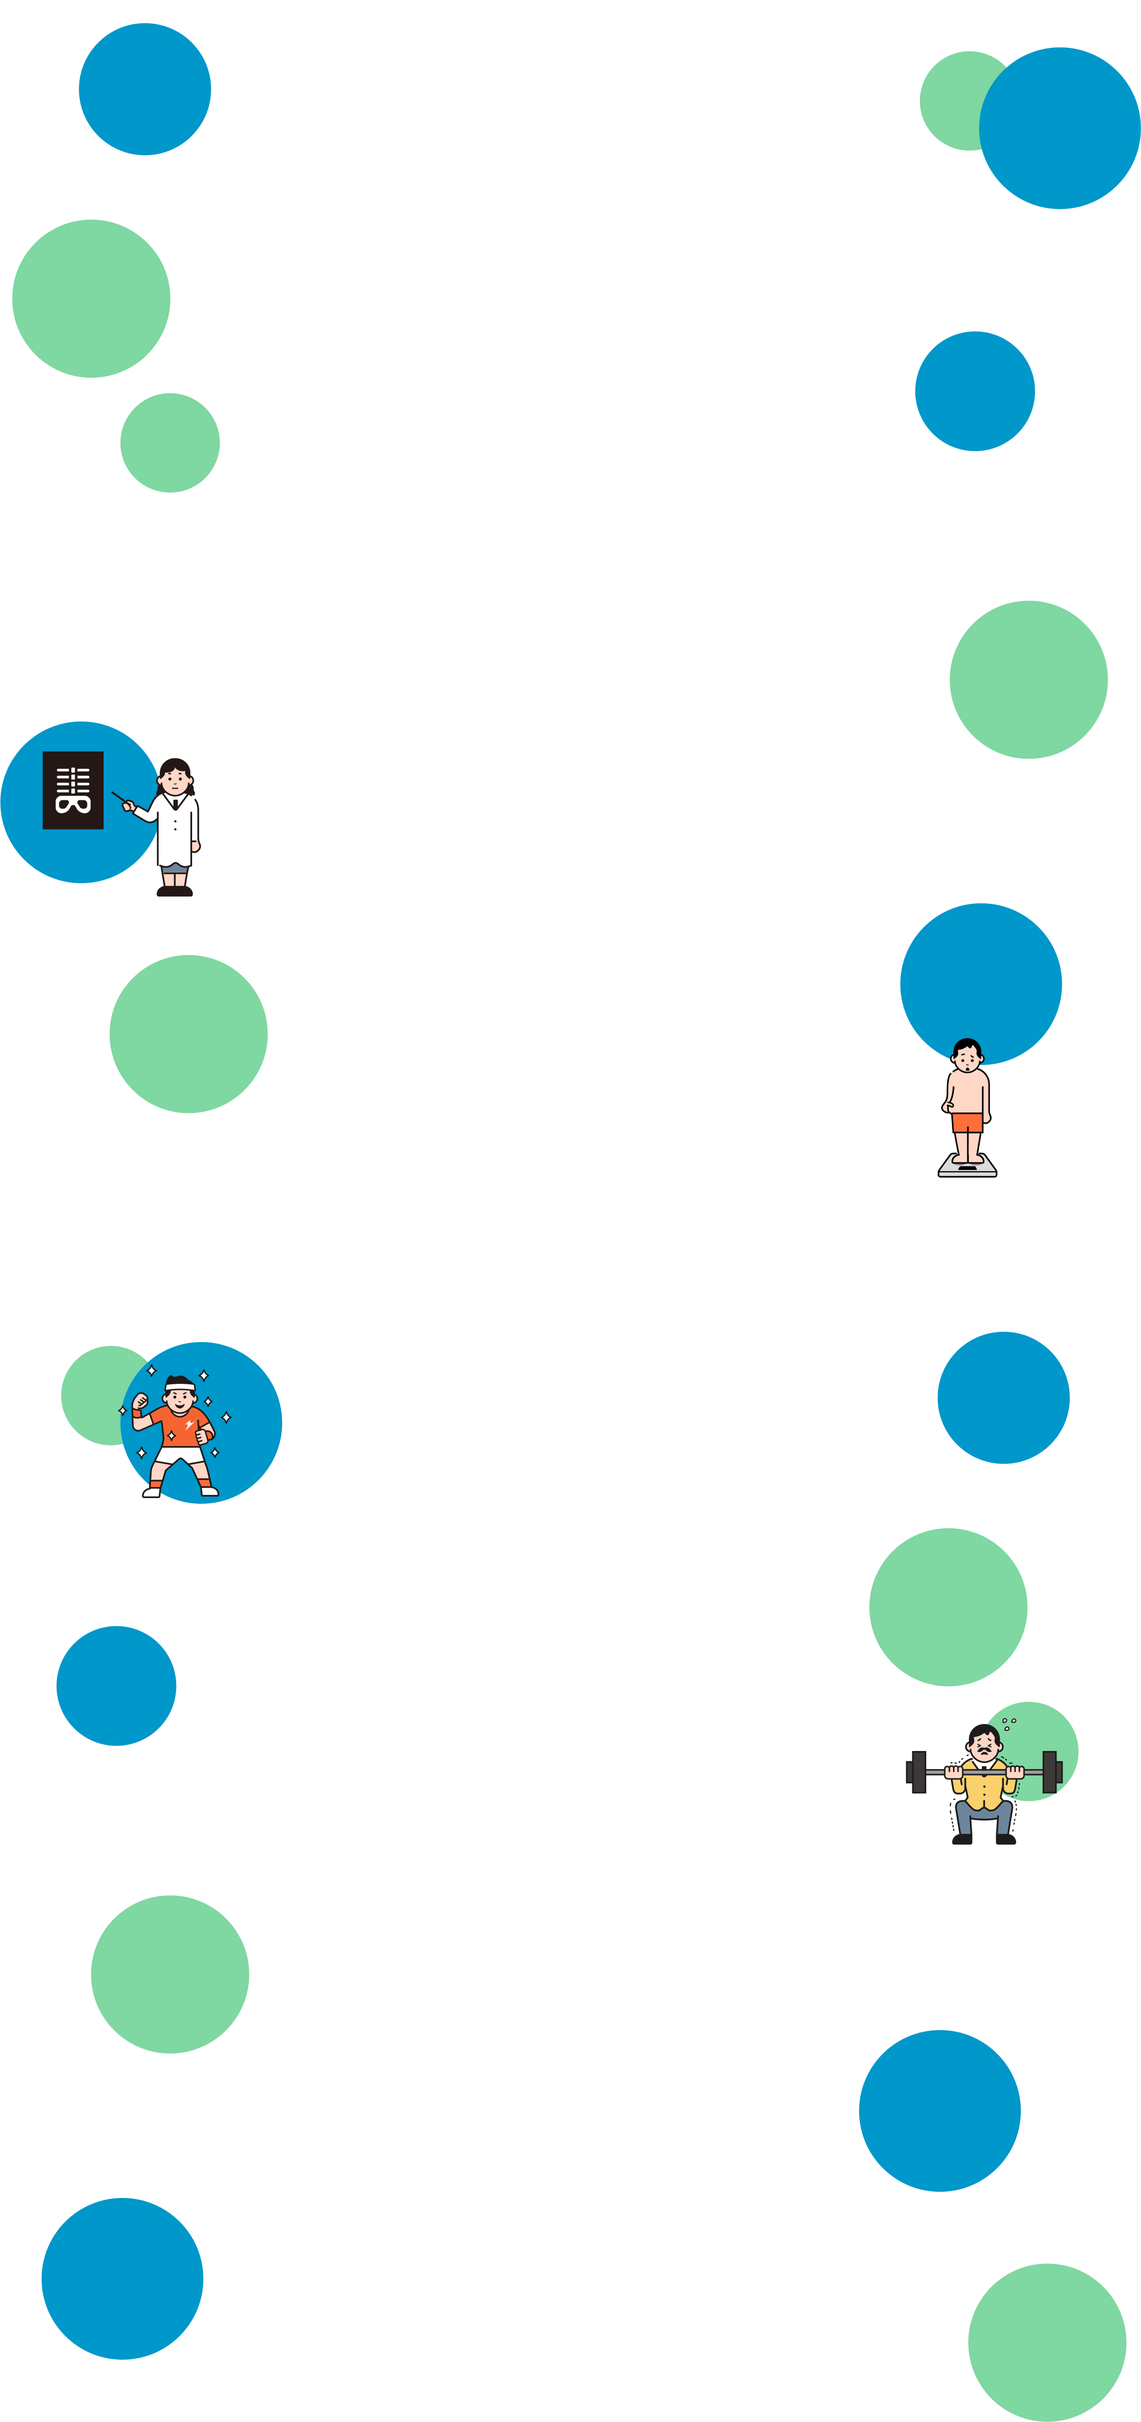
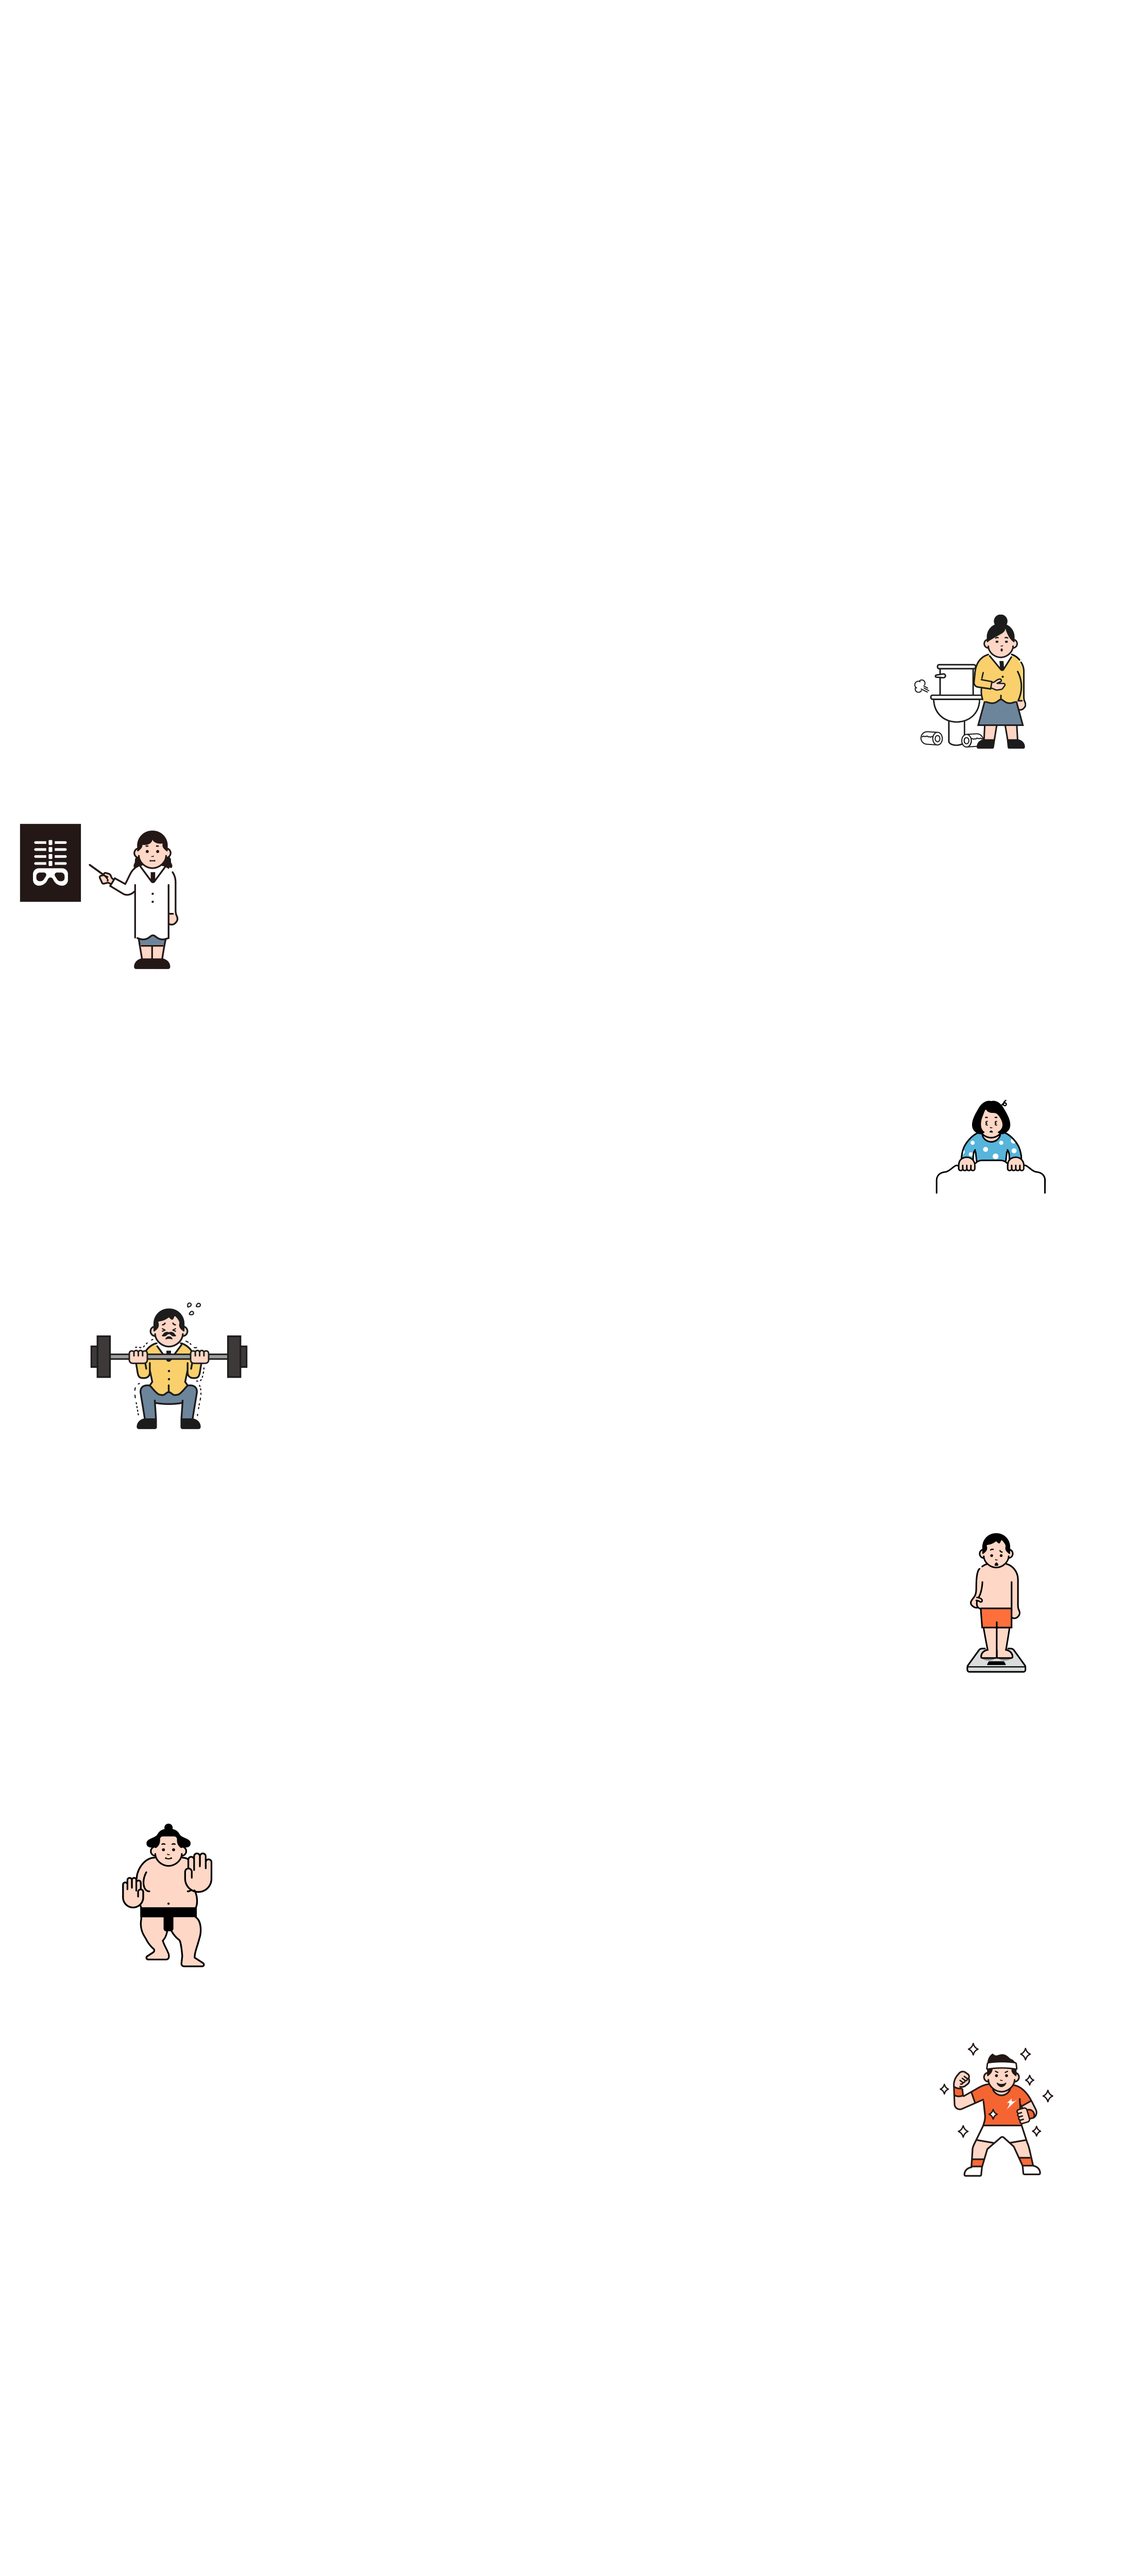
s
s

diff --git a/2022_healthy/css/style.css b/2022_healthy/css/style.css
@@ -452,7 +452,7 @@ a.my-btn-goTop.show {
 .all{
   border:2px solid #fff;
   padding: 0;
-  z-index: 1;
+  z-index:30;
 }
 .header-container {
   width: 100%;
@@ -1471,22 +1471,22 @@ ul.box-oneplus6 .itemlist .font p {
 /*******/
 .floating_pic1 {
   position: absolute;
-  top: 0;
+  top:400px;
   z-index: 13;
   pointer-events: none;
   width: 100%;
   background: url(../img/floating1.png) top center no-repeat;
-  height: 1602px;
+  height:5000px;
 }
 
 .floating_pic2 {
   position: absolute;
-  top:600px;
-  z-index: 0;
+  top:400px;
+  z-index: 14;
   pointer-events: none;
   width: 100%;
   background: url(../img/floating2.png) top center no-repeat;
-  height:4703px;
+  height:5000px;
 }
 
 

diff --git a/2022_healthy/index.html b/2022_healthy/index.html
@@ -895,7 +895,7 @@
 			
 		</div>
 		<div class="floating_pic2 rellax" data-rellax-speed="-25"></div> 
-			<!-- <div class="floating_pic1 rellax" data-rellax-speed="-5" ></div> -->
+			<div class="floating_pic1 rellax" data-rellax-speed="-35" ></div> 
 		</section>
 		<!-- //版頭視覺 end-->
 	
